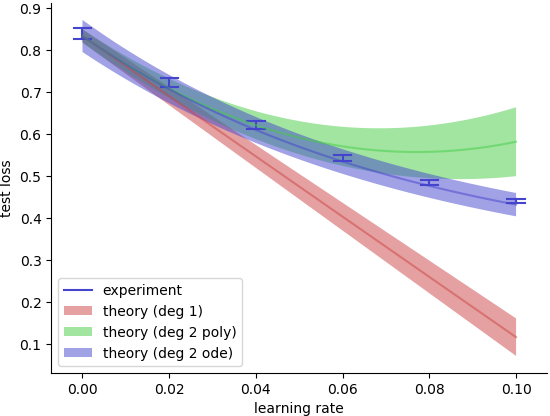
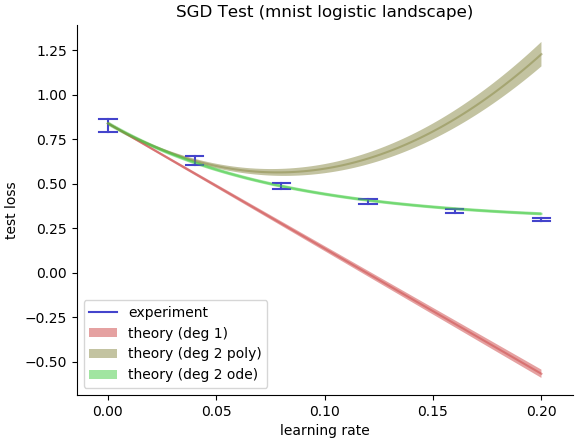
implement covar regularizer on mnist logistic

diff --git a/experiments/visualize.py b/experiments/visualize.py
@@ -51,7 +51,35 @@ def plot_bars(x, y, s, color, label, z=1.96, bar_width=1.0/50):
     #               2.1 plot curves                                            #
     #--------------------------------------------------------------------------#
 
-for opt in ('sgd',):#, 'gd'):
+#for opt in ('sgd',):#, 'gd'):
+#    X, Y, S = [], [], []
+#    for okey in ol:
+#        if okey.optimizer != opt: continue
+#        X.append(okey.eta)
+#        Y.append(ol[okey]['mean'])
+#        S.append(ol[okey]['stdv']/ol[okey]['nb_samples']**0.5)
+#    X = np.array(X)
+#    Y = np.array(Y)
+#    S = np.array(S)
+#    
+#    plot_bars(
+#        X,
+#        Y,
+#        S,
+#        color=blue if opt=='sgd' else red,
+#        label='experiment'
+#    )
+#
+#X = np.arange(0.00, 1.01, 0.01)*(max(X)-min(X)) + min(X)
+#Y, S = sgd_test_taylor(eta=X, T=100, degree=1) 
+#plot_fill(X, Y, S, color=red, label='theory (deg 1)')
+#Y, S = sgd_test_taylor(eta=X, T=100, degree=2) 
+#plot_fill(X, Y, S, color=yellow, label='theory (deg 2 poly)')
+#Y, S = sgd_test_exponential(eta=X, T=100)
+#plot_fill(X, Y, S, color=green, label='theory (deg 2 ode)')
+
+
+for opt in ('sgd', 'gd', 'gdc'):#, 'gd'):
     X, Y, S = [], [], []
     for okey in ol:
         if okey.optimizer != opt: continue
@@ -66,26 +94,30 @@ for opt in ('sgd',):#, 'gd'):
         X,
         Y,
         S,
-        color=blue if opt=='sgd' else red,
-        label='experiment'
+        color=cyan if opt=='sgd' else blue if opt=='gd' else magenta,
+        label=opt
     )
 
-X = np.arange(0.00, 1.01, 0.01)*(max(X)-min(X)) + min(X)
-Y, S = sgd_test_taylor(eta=X, T=100, degree=1) 
-plot_fill(X, Y, S, color=red, label='theory (deg 1)')
-Y, S = sgd_test_taylor(eta=X, T=100, degree=2) 
-plot_fill(X, Y, S, color=yellow, label='theory (deg 2 poly)')
-Y, S = sgd_test_exponential(eta=X, T=100)
-plot_fill(X, Y, S, color=green, label='theory (deg 2 ode)')
+#X = np.arange(0.00, 1.01, 0.01)*(max(X)-min(X)) + min(X)
+#Y, S = sgd_test_taylor(eta=X, T=100, degree=1) 
+#plot_fill(X, Y, S, color=red, label='theory (deg 1)')
+#Y, S = sgd_test_taylor(eta=X, T=100, degree=2) 
+#plot_fill(X, Y, S, color=yellow, label='theory (deg 2 poly)')
+#Y, S = sgd_test_exponential(eta=X, T=100)
+#plot_fill(X, Y, S, color=green, label='theory (deg 2 ode)')
+
+
 
 
     #--------------------------------------------------------------------------#
     #               2.2 label and save figures                                 #
     #--------------------------------------------------------------------------#
 
+#plt.title('SGD Test (mnist logistic landscape)')
+plt.title('Optimizers Test (mnist logistic landscape)')
 plt.xlabel('learning rate')
 plt.ylabel('test loss')
 plt.gca().spines['right'].set_visible(False)
 plt.gca().spines['top'].set_visible(False)
 plt.legend(loc='best')
-plt.savefig('plot.png', pad_inches=0, bbox_inches='tight')
+plt.savefig('plot.png', pad_inches=0.05, bbox_inches='tight')

diff --git a/experiments/simulator.py b/experiments/simulator.py
@@ -15,6 +15,7 @@ import torch
 import tqdm
 
 def compute_losses(land, eta, T, N, I=1):
+    assert N%2==0, 'GDC simulator needs N to be even for covariance estimation'
     ol = OptimLog()
     for i in tqdm.tqdm(range(I)):
         D = land.sample_data(2*N) 
@@ -40,8 +41,21 @@ def compute_losses(land, eta, T, N, I=1):
         gd_test_loss = land.get_loss_stalk(D_test)
         ol.accum(OptimKey(optimizer='gd', eta=eta, N=N, T=T, metric='test'), gd_test_loss)
 
-        # diff: 
+        # GDC:
+        land.reset_weights(w0)
+        for t in range(T):
+            gradA = land.nabla(land.get_loss_stalk(D_train[:int(N//2)]))
+            gradB = land.nabla(land.get_loss_stalk(D_train[int(N//2):]))
+            traceC = gradA.dot(gradA-gradB) * (N*N/4)  
+            grad = ((gradA + gradB)/2).detach()
+            grad_traceC = land.nabla(traceC, False).detach() 
+            land.update_weights(-eta*( grad + 0.01 * grad_traceC ))
+        gdc_test_loss = land.get_loss_stalk(D_test)
+        ol.accum(OptimKey(optimizer='gdc', eta=eta, N=N, T=T, metric='test'), gdc_test_loss)
+
+        # differences: 
         ol.accum(OptimKey(optimizer='diff', eta=eta, N=N, T=T, metric='test'), gd_test_loss-sgd_test_loss)
+        ol.accum(OptimKey(optimizer='diffc', eta=eta, N=N, T=T, metric='test'), gdc_test_loss-sgd_test_loss)
 
     return ol
 
@@ -51,9 +65,9 @@ if __name__=='__main__':
     #LC = Quadratic(dim=12)
 
     ol = OptimLog()
-    for eta in tqdm.tqdm(np.arange(0.0, 0.11, 0.02)):
+    for eta in tqdm.tqdm(np.arange(0.0, 0.21, 0.04)):
         for T in [100]:
-            ol.absorb(compute_losses(LC, eta=eta, T=T, N=T, I=int(150000.0/(T+1))))
+            ol.absorb(compute_losses(LC, eta=eta, T=T, N=T, I=int(15000.0/(T+1))))
     print(ol)
     with open('ol.data', 'w') as f:
         f.write(str(ol))

diff --git a/experiments/derivator.py b/experiments/derivator.py
@@ -68,7 +68,7 @@ if __name__ == '__main__':
     #from quad_landscapes import Quadratic
     #LC = Quadratic(dim=12)
 
-    grad_stats = str(compute_grad_stats(LC, N=10, I=1000))
+    grad_stats = str(compute_grad_stats(LC, N=10, I=10000))
     with open('gs.data', 'w') as f:
         f.write(grad_stats)
 
